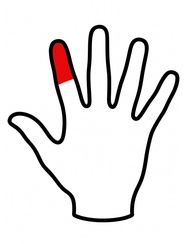
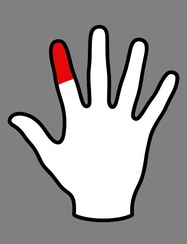
MEG-localizer2: grey background, hand pictures regenerated on grey, white photodiode square at every row onset

diff --git a/examples/MEG-localizer2/main.go b/examples/MEG-localizer2/main.go
@@ -8,8 +8,8 @@
 // nothing but the fixation cross is on screen, and five narrow-band tones one
 // octave apart. The program is the one from examples/MEG-localizer — the same
 // table-driven presentation engine, differing in what it embeds, in running
-// black on white so the hand pictures' white background merges with the
-// screen, and in the EMPTY row type. A run is a tab-separated table of
+// black on mid-grey (the hand pictures' background is painted the same grey,
+// see stimuli/hands/make_stimuli.py), and in the EMPTY row type. A run is a tab-separated table of
 // absolute onsets in protocols/, and nothing about the paradigm is compiled in.
 //
 //	onset_time	duration	type	cond	stimuli
@@ -49,6 +49,12 @@
 // ttl.go). Not available in the browser build.
 //
 //	go run . -ttl megttlbox:/dev/ttyACM0
+//
+// Photodiode: a white square is drawn on the grey background in the top-left
+// corner for one frame at every row's onset --
+// on the frame whose flip fires the TTL code, so a photodiode on the corner
+// and the trigger channel mark the same event. It is on by default;
+// -photodiode=false turns it off, -photodiode-size sets its side in pixels.
 package main
 
 import (
@@ -87,6 +93,10 @@ var assetFS embed.FS
 // the final stimulus is not cut off by the window closing. It matches the grace
 // period of the gostim2 implementation this is ported from.
 const gracePeriodMs = 500
+
+// defaultPhotodiodeSize is the side, in pixels, of the square flashed in the
+// top-left corner at every row onset (see -photodiode).
+const defaultPhotodiodeSize = 100
 
 // element is one item of a row's stimulus sequence: a single stimulus for the
 // scalar types, one of the "~"-separated items for the *_STREAM types.
@@ -301,18 +311,24 @@ func main() {
 	ttlSpec := flag.String("ttl", "", "send each row's \"code\" as a TTL at its onset, through "+
 		"DEVICE[:PORT]: megttlbox:/dev/ttyACM0, mmbts:/dev/ttyACM0, dlpio8[:PORT|auto], "+
 		"parallel[:/dev/parport0]; empty means no triggers")
+	photodiode := flag.Bool("photodiode", true, "flash a square in the top-left corner for one frame at every "+
+		"row onset, for a photodiode (-photodiode=false to disable)")
+	photodiodeSize := flag.Float64("photodiode-size", defaultPhotodiodeSize,
+		"side of the photodiode square, in pixels")
 	ttlMs := flag.Int("ttl-ms", 10, "TTL pulse width in ms (the code is held at least this long, "+
 		"and at most one frame longer)")
 
-	// Black on white, unlike MEG-localizer: the hand pictures have a white
-	// background, so on a white screen only the hand appears and disappears,
-	// and the fixation cross and crosshair, drawn in the foreground colour,
-	// stay visible on top of it. Font size 50 as in MEG-localizer.
+	// Black on mid-grey, unlike MEG-localizer. Grey, not white, so that the
+	// white photodiode square stands out from the background; the hand
+	// pictures' background is painted the same grey (control.Gray, 128) by
+	// stimuli/hands/make_stimuli.py, so only the hand appears and disappears.
+	// The fixation cross, drawn in the foreground colour, stays visible on
+	// top of it. Font size 50 as in MEG-localizer.
 	// The protocol selector rides along in the session-setup dialog that opens
 	// when no -s is given -- double-clicking the icon, that is -- so the run
 	// can be chosen without a command line. Its value is remembered across
 	// sessions like the other dialog settings.
-	exp := control.NewExperimentFromFlags("MEG-localizer2", control.White, control.Black, 50,
+	exp := control.NewExperimentFromFlags("MEG-localizer2", control.Gray, control.Black, 50,
 		control.InfoField{Name: "protocol", Label: "Protocol",
 			Type: control.FieldSelect, Options: names, Default: initial})
 	defer exp.End()
@@ -411,6 +427,35 @@ func main() {
 		log.Fatalf("cannot preload fixation cross: %v", err)
 	}
 
+	// Photodiode patch, in the top-left corner of the drawable area. Positions
+	// are centre-relative with +Y up, so the corner is at (-w/2 + side/2,
+	// +h/2 - side/2), in the same size CenterToSDL works from: LogicalSize when
+	// one is set, the renderer output size otherwise. White on the grey
+	// background. nil when -photodiode is off, which is what onFrame tests.
+	var patch *stimuli.Rectangle
+	if *photodiode {
+		var w, h float32
+		if ls := exp.Screen.LogicalSize; ls != nil {
+			w, h = ls.X, ls.Y
+		} else {
+			ow, oh, serr := exp.Screen.Size()
+			if serr != nil {
+				log.Fatalf("-photodiode: cannot read the screen size: %v", serr)
+			}
+			w, h = float32(ow), float32(oh)
+		}
+		side := float32(*photodiodeSize)
+		if side <= 0 || side > w || side > h {
+			log.Fatalf("-photodiode-size: %.0f px does not fit on a %.0fx%.0f screen", side, w, h)
+		}
+		patch = stimuli.NewRectangle(-w/2+side/2, h/2-side/2, side, side, control.White)
+		if err := stimuli.PreloadVisualOnScreen(exp.Screen, patch); err != nil {
+			log.Fatalf("cannot preload photodiode square: %v", err)
+		}
+		log.Printf("photodiode: %.0f px square in the top-left corner of the %.0fx%.0f drawable area, "+
+			"1 frame at every row onset", side, w, h)
+	}
+
 	// Build and preload every stimulus up front: identical items (the four
 	// checkerboards, a repeated instruction word) are built once and shared, so
 	// each distinct file costs one texture or one audio stream, and no decoding
@@ -430,6 +475,10 @@ func main() {
 	exp.AddExperimentInfo("protocol_source: " + source)
 	if ttlDesc != "" {
 		exp.AddExperimentInfo(fmt.Sprintf("ttl: %s, pulse %d ms", ttlDesc, *ttlMs))
+	}
+	if patch != nil {
+		exp.AddExperimentInfo(fmt.Sprintf("photodiode: %.0f px square, top-left, white, "+
+			"1 frame at every row onset", *photodiodeSize))
 	}
 
 	isRun := selected != "instructions"
@@ -507,6 +556,11 @@ func main() {
 		// frames makes it a real -ttl-ms edge: the achieved width is between
 		// ttlMs and one frame more than it. The clearing frame may belong to
 		// the next row's stream, which is fine: the closure outlives the rows.
+		// The photodiode patch goes up on frame 0 of the row's first element --
+		// the frame whose flip onOnset follows -- and so reaches the screen in
+		// the same flip as the TTL code. For a sound row that flip is when the
+		// sound is started, not when it is heard: the audio latency is not in
+		// the photodiode signal.
 		var curCode, curLead int
 		var pulseEndNS uint64
 		onOnset := func(index int, onsetNS uint64) error {
@@ -521,6 +575,11 @@ func main() {
 			if pulseEndNS != 0 && ctx.NowNS >= pulseEndNS {
 				ttlFail("clear", ttl.Send(0))
 				pulseEndNS = 0
+			}
+			if patch != nil && ctx.Index == curLead && ctx.OnPhase && ctx.Frame == 0 {
+				if derr := patch.Draw(exp.Screen); derr != nil {
+					return derr
+				}
 			}
 			// The same cross as between stimuli, drawn on top of the picture
 			// so it never disappears or changes size. On a fixation lead or an

diff --git a/examples/MEG-localizer2/stimuli/hands/make_stimuli.py b/examples/MEG-localizer2/stimuli/hands/make_stimuli.py
@@ -1,0 +1,65 @@
+#!/usr/bin/env python3
+"""Make the presented pictures, ../f1.jpg ... ../f5.jpg, from the full-size cuts here.
+
+The cuts are black outlines on white. The program runs on a mid-grey
+background (so that the photodiode square, drawn in white, stands out), so the
+white *around* each hand is repainted to that grey, while the white *inside*
+the outline stays white: the outside is the light region connected to the
+image border, found by flood fill. The hands' outlines are closed, which is
+what keeps the fill out; the script stops if the fill takes the whole picture.
+
+The recolouring is done at full size and the result is then scaled down, so
+the outline's edge is antialiased against the grey rather than against white.
+
+Usage: python3 make_stimuli.py [--size 187x244] [--grey 128]
+"""
+import argparse
+import sys
+from pathlib import Path
+
+import numpy as np
+from PIL import Image
+from scipy import ndimage
+
+HERE = Path(__file__).resolve().parent
+OUT = HERE.parent
+
+
+def grey_background(img, grey, threshold):
+    """Return img with the light region connected to its border set to grey."""
+    rgb = np.asarray(img.convert("RGB")).copy()
+    light = np.asarray(img.convert("L")) >= threshold
+    labels, _ = ndimage.label(light)
+    edge = np.concatenate([labels[0], labels[-1], labels[:, 0], labels[:, -1]])
+    outside = np.isin(labels, np.unique(edge[edge != 0]))
+    inside = light & ~outside
+    if inside.mean() < 0.05:
+        raise ValueError("the fill reached the inside of the hand: is the outline open?")
+    rgb[outside] = grey
+    return Image.fromarray(rgb), outside.mean(), inside.mean()
+
+
+def main():
+    ap = argparse.ArgumentParser(description=__doc__.splitlines()[0])
+    ap.add_argument("--size", default="187x244", help="output size WxH (default 187x244)")
+    ap.add_argument("--grey", type=int, default=128,
+                    help="background grey level; must match control.Gray in main.go (default 128)")
+    ap.add_argument("--threshold", type=int, default=128,
+                    help="grey level at or above which a pixel counts as background (default 128)")
+    args = ap.parse_args()
+    w, h = (int(v) for v in args.size.lower().split("x"))
+
+    for n in range(1, 6):
+        src = HERE / f"f{n}.jpg"
+        try:
+            img, out_frac, in_frac = grey_background(Image.open(src), args.grey, args.threshold)
+        except ValueError as e:
+            sys.exit(f"{src.name}: {e}")
+        dst = OUT / src.name
+        img.resize((w, h), Image.LANCZOS).save(dst, quality=95)
+        print(f"{dst.relative_to(HERE.parent.parent)}: {w}x{h}, "
+              f"background {100 * out_frac:.1f}% -> grey {args.grey}, inside {100 * in_frac:.1f}% kept")
+
+
+if __name__ == "__main__":
+    main()

diff --git a/examples/MEG-localizer2/README.md b/examples/MEG-localizer2/README.md
@@ -9,8 +9,9 @@ for 160 trials (each of the ten 16 times) — a run of about 160 s.
 The program is the one from [`examples/MEG-localizer`](../MEG-localizer): the
 same table-driven presentation engine, and the same `main.go`, `ttl.go` and
 `ttl_js.go` but for a few lines of `main.go`: the embed pattern, the title,
-black-on-white instead of white-on-black so the hand pictures' white
-background merges with the screen, one fixation cross kept on screen at the
+black on mid-grey instead of white on black (grey so that the white
+photodiode square stands out; the hand pictures' background is painted the
+same grey), one fixation cross kept on screen at the
 same size throughout the run, and the `EMPTY` row type. Everything else that
 makes this a different experiment is in `stimuli/` and in the schedule under
 `protocols/`.
@@ -36,6 +37,7 @@ From this directory:
     go run . -dir .               # read protocols/ and stimuli/ from disk
     go run . -skip-wait           # start at once, no instruction screen
     go run . -ttl megttlbox:/dev/ttyACM0   # TTL code at every onset (below)
+    go run . -photodiode=false    # no photodiode square in the corner
 
 The run shows an instruction screen, waits for SPACE, then shows a green
 fixation cross and waits for **T** to start. The clock starts at that keypress
@@ -52,6 +54,8 @@ and every onset is measured from it. ESC, or closing the window, aborts.
 | `-skip-wait` | no instruction screen and no start key |
 | `-ttl DEVICE[:PORT]` | send each row's code as a TTL at its onset — see below; default none |
 | `-ttl-ms N` | TTL pulse width in ms; default 10 |
+| `-photodiode` | flash a square in the top-left corner for one frame at every row onset; on by default, `-photodiode=false` disables it |
+| `-photodiode-size N` | side of the photodiode square, in pixels; default 100 |
 
 **Record in fullscreen, never windowed** — see the note in
 [`MEG-localizer/README.md`](../MEG-localizer/README.md): a compositing desktop
@@ -64,15 +68,16 @@ The stimuli
 
 | Condition | Type | File | What it is | Duration |
 |---|---|---|---|---|
-| `finger_index` … `finger_little` | `IMAGE` | `f2.jpg` … `f5.jpg` | a hand, black outline on white, with one finger filled red | 500 ms |
+| `finger_index` … `finger_little` | `IMAGE` | `f2.jpg` … `f5.jpg` | a white hand with a black outline on grey, with one finger filled red | 500 ms |
 | `empty` | `EMPTY` | — | nothing: the fixation cross alone, for the trial's duration | 500 ms |
 | `tone_200` … `tone_3200` | `SOUND` | `tone_00200Hz.wav` … `tone_03200Hz.wav` | narrow-band noise centred on 200, 400, 800, 1600, 3200 Hz | 500 ms |
 
 The pictures are 187 × 244 px, shown at the centre of the screen. The
 fixation cross — black, 40 px arms, the same one throughout — is on screen
 for the whole run: alone between trials and during an empty trial, drawn on
-top of the hand during a picture. Since the screen is white, a picture's own
-white background is invisible: what appears and disappears is the hand.
+top of the hand during a picture. The screen is mid-grey (128) and each
+picture's background is painted the same grey, so it is invisible: what
+appears and disappears is the white hand.
 
 The empty trial takes the slot of the thumb picture: `f1.jpg` is still under
 `stimuli/` (and embedded), but no row of `demo.tsv` names it. An `EMPTY` row
@@ -90,7 +95,7 @@ subdirectories are not):
 
 | Directory | Contents |
 |---|---|
-| `stimuli/hands/` | `fingers_all.jpg`, the five hands on one sheet; `split_hands.py`, which cuts it into `f1.jpg` … `f5.jpg`; and those five cuts at full size (568 × 738 px) — the copies in `stimuli/` are the same pictures scaled down to 187 × 244 |
+| `stimuli/hands/` | `fingers_all.jpg`, the five hands on one sheet; `split_hands.py`, which cuts it into `f1.jpg` … `f5.jpg`; and those five cuts at full size (568 × 738 px), white background; `make_stimuli.py`, which makes the copies in `stimuli/` from them: the background around the hand (the white connected to the border) painted grey 128, then scaled down to 187 × 244 |
 | `stimuli/tones/` | `make_tones.py` and `description.md`; `set1/` is the 1-octave set in use, `set2/` a 0.6-octave alternative (200 … 1056 Hz) |
 
 To try `set2`, copy its files over `stimuli/` and change `TONES_HZ` in
@@ -161,6 +166,19 @@ build.
 
 The codes are just a column of the table: `make-protocol.py` writes them, and
 a table without the column runs without triggers.
+
+Photodiode
+----------
+
+At every row onset a 100×100 px square (`-photodiode-size`) is drawn in the
+top-left corner for one frame. It is drawn into the frame whose flip fires the
+TTL code, so the photodiode and the trigger channel mark the same flip, and
+the difference between them is the display latency. The square is white on
+the grey (128) background, so the photodiode sees a grey-to-white step. It
+flashes on every row, sound rows included; there it marks the flip after
+which the sound is started, not the sound itself, whose latency must be
+measured separately (e.g. with a microphone). `-photodiode=false` turns it
+off.
 
 
 The data file
